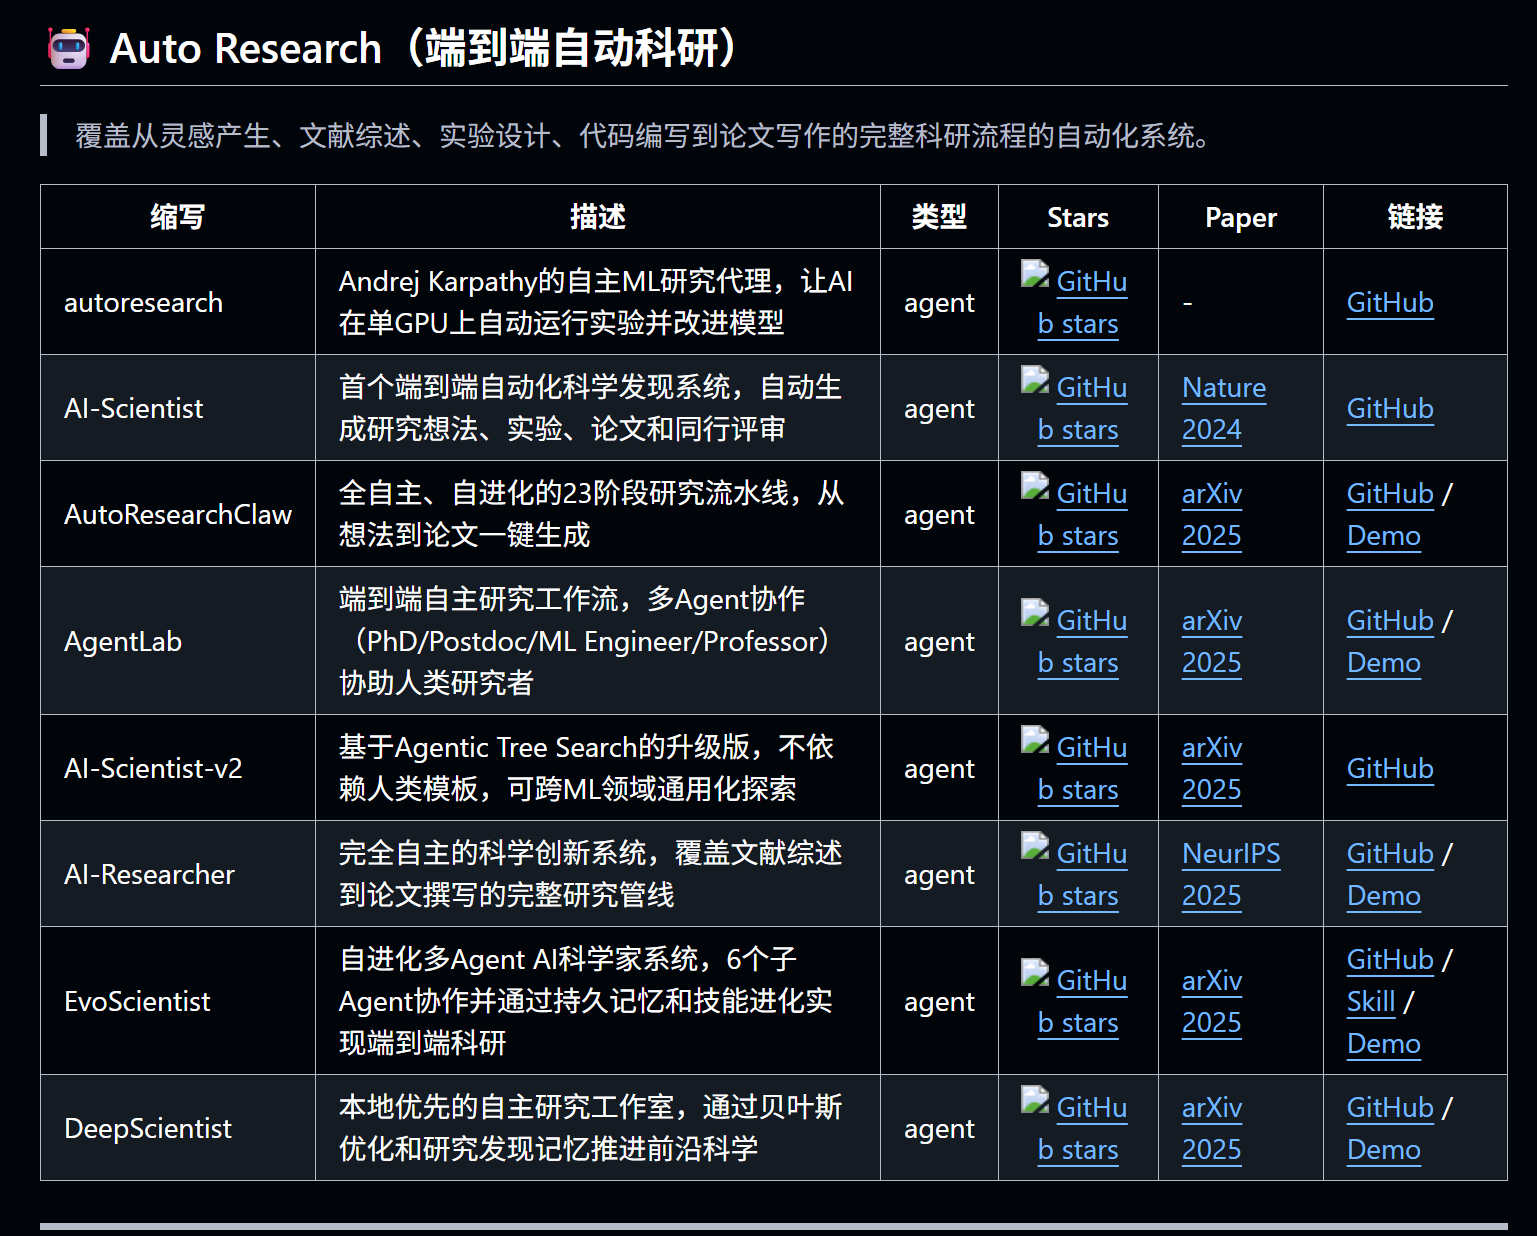
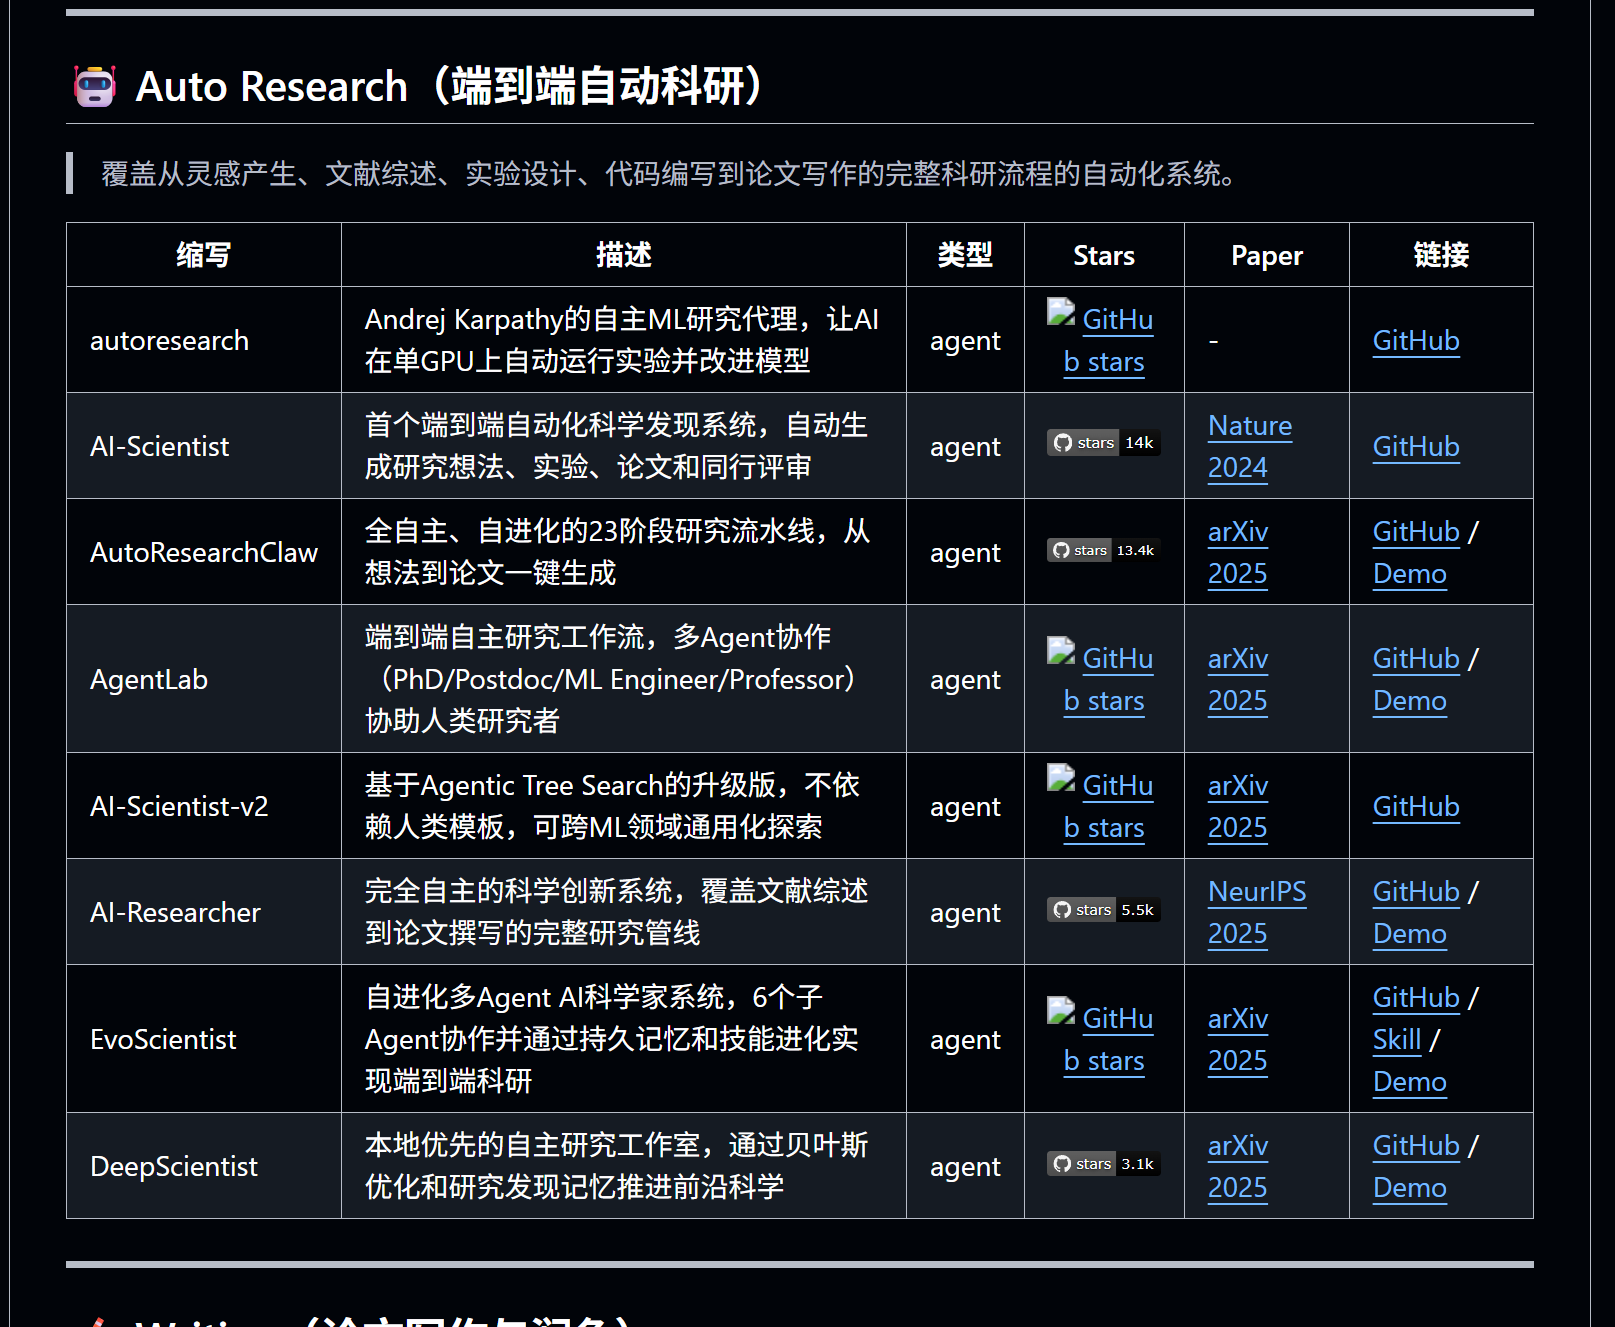
fix: use shields.io native github/stars endpoint for reliable badge rendering

diff --git a/scripts/update_stars.py b/scripts/update_stars.py
@@ -49,11 +49,9 @@ def fetch_stars(repo: str, token: str | None) -> int:
 
 
 def build_badge(repo: str, stars: str) -> str:
-    # shields.io badge format: encode literal '-' as '--'
-    safe_stars = stars.replace("-", "--")
     return (
         f"<!--stars:{repo}-->"
-        f"![GitHub stars](https://img.shields.io/badge/stars-{safe_stars}-black?logo=github)"
+        f"![GitHub stars](https://img.shields.io/github/stars/{repo}?style=social)"
         f"<!--/stars-->"
     )
 

diff --git a/README.md b/README.md
@@ -21,14 +21,14 @@
 
 | 缩写 | 描述 | 类型 | Stars | Paper | 链接 |
 |------|------|------|:------------:|-------|------|
-| autoresearch | Andrej Karpathy的自主ML研究代理，让AI在单GPU上自动运行实验并改进模型 | agent | <!--stars:karpathy/autoresearch-->![GitHub stars](https://img.shields.io/badge/stars-87.2k-black?logo=github)<!--/stars--> | - | [GitHub](https://github.com/karpathy/autoresearch) |
-| AI-Scientist | 首个端到端自动化科学发现系统，自动生成研究想法、实验、论文和同行评审 | agent | <!--stars:SakanaAI/AI-Scientist-->![GitHub stars](https://img.shields.io/badge/stars-14k-black?logo=github)<!--/stars--> | [Nature 2024](https://modelscope.cn/papers/2408.06292/) | [GitHub](https://github.com/SakanaAI/AI-Scientist) |
-| AutoResearchClaw | 全自主、自进化的23阶段研究流水线，从想法到论文一键生成 | agent | <!--stars:aiming-lab/AutoResearchClaw-->![GitHub stars](https://img.shields.io/badge/stars-13.4k-black?logo=github)<!--/stars--> | [arXiv 2025](https://modelscope.cn/papers/2605.22662/) | [GitHub](https://github.com/aiming-lab/AutoResearchClaw) / [Demo](https://openclaw.ai) |
-| AgentLab | 端到端自主研究工作流，多Agent协作（PhD/Postdoc/ML Engineer/Professor）协助人类研究者 | agent | <!--stars:SamuelSchmidgall/AgentLaboratory-->![GitHub stars](https://img.shields.io/badge/stars-5.7k-black?logo=github)<!--/stars--> | [arXiv 2025](https://modelscope.cn/papers/2501.04227/) | [GitHub](https://github.com/SamuelSchmidgall/AgentLaboratory) / [Demo](https://agentlaboratory.github.io) |
-| AI-Scientist-v2 | 基于Agentic Tree Search的升级版，不依赖人类模板，可跨ML领域通用化探索 | agent | <!--stars:SakanaAI/AI-Scientist-v2-->![GitHub stars](https://img.shields.io/badge/stars-6.6k-black?logo=github)<!--/stars--> | [arXiv 2025](https://modelscope.cn/papers/2504.08066/) | [GitHub](https://github.com/SakanaAI/AI-Scientist-v2) |
-| AI-Researcher | 完全自主的科学创新系统，覆盖文献综述到论文撰写的完整研究管线 | agent | <!--stars:hkuds/ai-researcher-->![GitHub stars](https://img.shields.io/badge/stars-5.5k-black?logo=github)<!--/stars--> | [NeurIPS 2025](https://modelscope.cn/papers/2505.18705/) | [GitHub](https://github.com/hkuds/ai-researcher) / [Demo](https://novix.science/chat) |
-| EvoScientist | 自进化多Agent AI科学家系统，6个子Agent协作并通过持久记忆和技能进化实现端到端科研 | agent | <!--stars:EvoScientist/EvoScientist-->![GitHub stars](https://img.shields.io/badge/stars-3.6k-black?logo=github)<!--/stars--> | [arXiv 2025](https://modelscope.cn/papers/2603.08127/) | [GitHub](https://github.com/EvoScientist/EvoScientist) / [Skill](https://skillsllm.com/skill/evoscientist) / [Demo](https://evoscientist.ai) |
-| DeepScientist | 本地优先的自主研究工作室，通过贝叶斯优化和研究发现记忆推进前沿科学 | agent | <!--stars:ResearAI/DeepScientist-->![GitHub stars](https://img.shields.io/badge/stars-3.1k-black?logo=github)<!--/stars--> | [arXiv 2025](https://modelscope.cn/papers/2509.26603/) | [GitHub](https://github.com/ResearAI/DeepScientist) / [Demo](https://deepscientist.cc) |
+| autoresearch | Andrej Karpathy的自主ML研究代理，让AI在单GPU上自动运行实验并改进模型 | agent | <!--stars:karpathy/autoresearch-->![GitHub stars](https://img.shields.io/github/stars/karpathy/autoresearch?style=social)<!--/stars--> | - | [GitHub](https://github.com/karpathy/autoresearch) |
+| AI-Scientist | 首个端到端自动化科学发现系统，自动生成研究想法、实验、论文和同行评审 | agent | <!--stars:SakanaAI/AI-Scientist-->![GitHub stars](https://img.shields.io/github/stars/SakanaAI/AI-Scientist?style=social)<!--/stars--> | [Nature 2024](https://modelscope.cn/papers/2408.06292/) | [GitHub](https://github.com/SakanaAI/AI-Scientist) |
+| AutoResearchClaw | 全自主、自进化的23阶段研究流水线，从想法到论文一键生成 | agent | <!--stars:aiming-lab/AutoResearchClaw-->![GitHub stars](https://img.shields.io/github/stars/aiming-lab/AutoResearchClaw?style=social)<!--/stars--> | [arXiv 2025](https://modelscope.cn/papers/2605.22662/) | [GitHub](https://github.com/aiming-lab/AutoResearchClaw) / [Demo](https://openclaw.ai) |
+| AgentLab | 端到端自主研究工作流，多Agent协作（PhD/Postdoc/ML Engineer/Professor）协助人类研究者 | agent | <!--stars:SamuelSchmidgall/AgentLaboratory-->![GitHub stars](https://img.shields.io/github/stars/SamuelSchmidgall/AgentLaboratory?style=social)<!--/stars--> | [arXiv 2025](https://modelscope.cn/papers/2501.04227/) | [GitHub](https://github.com/SamuelSchmidgall/AgentLaboratory) / [Demo](https://agentlaboratory.github.io) |
+| AI-Scientist-v2 | 基于Agentic Tree Search的升级版，不依赖人类模板，可跨ML领域通用化探索 | agent | <!--stars:SakanaAI/AI-Scientist-v2-->![GitHub stars](https://img.shields.io/github/stars/SakanaAI/AI-Scientist-v2?style=social)<!--/stars--> | [arXiv 2025](https://modelscope.cn/papers/2504.08066/) | [GitHub](https://github.com/SakanaAI/AI-Scientist-v2) |
+| AI-Researcher | 完全自主的科学创新系统，覆盖文献综述到论文撰写的完整研究管线 | agent | <!--stars:hkuds/ai-researcher-->![GitHub stars](https://img.shields.io/github/stars/hkuds/ai-researcher?style=social)<!--/stars--> | [NeurIPS 2025](https://modelscope.cn/papers/2505.18705/) | [GitHub](https://github.com/hkuds/ai-researcher) / [Demo](https://novix.science/chat) |
+| EvoScientist | 自进化多Agent AI科学家系统，6个子Agent协作并通过持久记忆和技能进化实现端到端科研 | agent | <!--stars:EvoScientist/EvoScientist-->![GitHub stars](https://img.shields.io/github/stars/EvoScientist/EvoScientist?style=social)<!--/stars--> | [arXiv 2025](https://modelscope.cn/papers/2603.08127/) | [GitHub](https://github.com/EvoScientist/EvoScientist) / [Skill](https://skillsllm.com/skill/evoscientist) / [Demo](https://evoscientist.ai) |
+| DeepScientist | 本地优先的自主研究工作室，通过贝叶斯优化和研究发现记忆推进前沿科学 | agent | <!--stars:ResearAI/DeepScientist-->![GitHub stars](https://img.shields.io/github/stars/ResearAI/DeepScientist?style=social)<!--/stars--> | [arXiv 2025](https://modelscope.cn/papers/2509.26603/) | [GitHub](https://github.com/ResearAI/DeepScientist) / [Demo](https://deepscientist.cc) |
 
 
 ---
@@ -39,8 +39,8 @@
 
 | 缩写 | 描述 | 类型 | Stars | Paper | 链接 |
 |------|------|------|:------------:|-------|------|
-| STORM | 斯坦福开源的知识整理系统，通过多视角问题生成和检索研究生成带引用的完整报告 | agent | <!--stars:stanford-oval/storm-->![GitHub stars](https://img.shields.io/badge/stars-28.4k-black?logo=github)<!--/stars--> | [NAACL 2024](https://modelscope.cn/papers/2402.14207/) | [GitHub](https://github.com/stanford-oval/storm) / [Demo](https://storm.genie.stanford.edu) |
-| ARS | Claude Code学术研究技能套件，覆盖从文献调研到论文发表的全流程 | skill | <!--stars:Imbad0202/academic-research-skills-->![GitHub stars](https://img.shields.io/badge/stars-32.2k-black?logo=github)<!--/stars--> | - | [GitHub](https://github.com/Imbad0202/academic-research-skills) / 内置Claude Code技能 |
+| STORM | 斯坦福开源的知识整理系统，通过多视角问题生成和检索研究生成带引用的完整报告 | agent | <!--stars:stanford-oval/storm-->![GitHub stars](https://img.shields.io/github/stars/stanford-oval/storm?style=social)<!--/stars--> | [NAACL 2024](https://modelscope.cn/papers/2402.14207/) | [GitHub](https://github.com/stanford-oval/storm) / [Demo](https://storm.genie.stanford.edu) |
+| ARS | Claude Code学术研究技能套件，覆盖从文献调研到论文发表的全流程 | skill | <!--stars:Imbad0202/academic-research-skills-->![GitHub stars](https://img.shields.io/github/stars/Imbad0202/academic-research-skills?style=social)<!--/stars--> | - | [GitHub](https://github.com/Imbad0202/academic-research-skills) / 内置Claude Code技能 |
 
 
 ---
@@ -51,7 +51,7 @@
 
 | 缩写 | 描述 | 类型 | Stars | Paper | 链接 |
 |------|------|------|:------------:|-------|------|
-| PaperBanana | 多Agent学术插图自动化生成框架，从文本描述生成出版级图表和统计图 | agent | <!--stars:dwzhu-pku/PaperBanana-->![GitHub stars](https://img.shields.io/badge/stars-6.6k-black?logo=github)<!--/stars--> | [arXiv 2025](https://modelscope.cn/papers/2601.23265/) | [GitHub](https://github.com/dwzhu-pku/PaperBanana) / [Demo](https://dwzhu-pku.github.io/PaperBanana/) |
+| PaperBanana | 多Agent学术插图自动化生成框架，从文本描述生成出版级图表和统计图 | agent | <!--stars:dwzhu-pku/PaperBanana-->![GitHub stars](https://img.shields.io/github/stars/dwzhu-pku/PaperBanana?style=social)<!--/stars--> | [arXiv 2025](https://modelscope.cn/papers/2601.23265/) | [GitHub](https://github.com/dwzhu-pku/PaperBanana) / [Demo](https://dwzhu-pku.github.io/PaperBanana/) |
 
 ---
 
@@ -61,7 +61,7 @@
 
 | 缩写 | 描述 | 类型 | Stars | Paper | 链接 |
 |------|------|------|:------------:|-------|------|
-| CitationClaw | 让每一次引用都成为可解释的影响力，输入论文标题或Google Scholar主页即可生成可分享的引用画像报告 | tool | <!--stars:VisionXLab/CitationClaw-->![GitHub stars](https://img.shields.io/badge/stars-307-black?logo=github)<!--/stars--> | - | [GitHub](https://github.com/VisionXLab/CitationClaw) / [魔搭创空间](https://modelscope.cn/studios/fork?target=VisionXLab/CitationClaw)|
+| CitationClaw | 让每一次引用都成为可解释的影响力，输入论文标题或Google Scholar主页即可生成可分享的引用画像报告 | tool | <!--stars:VisionXLab/CitationClaw-->![GitHub stars](https://img.shields.io/github/stars/VisionXLab/CitationClaw?style=social)<!--/stars--> | - | [GitHub](https://github.com/VisionXLab/CitationClaw) / [魔搭创空间](https://modelscope.cn/studios/fork?target=VisionXLab/CitationClaw)|
 
 ---
 
